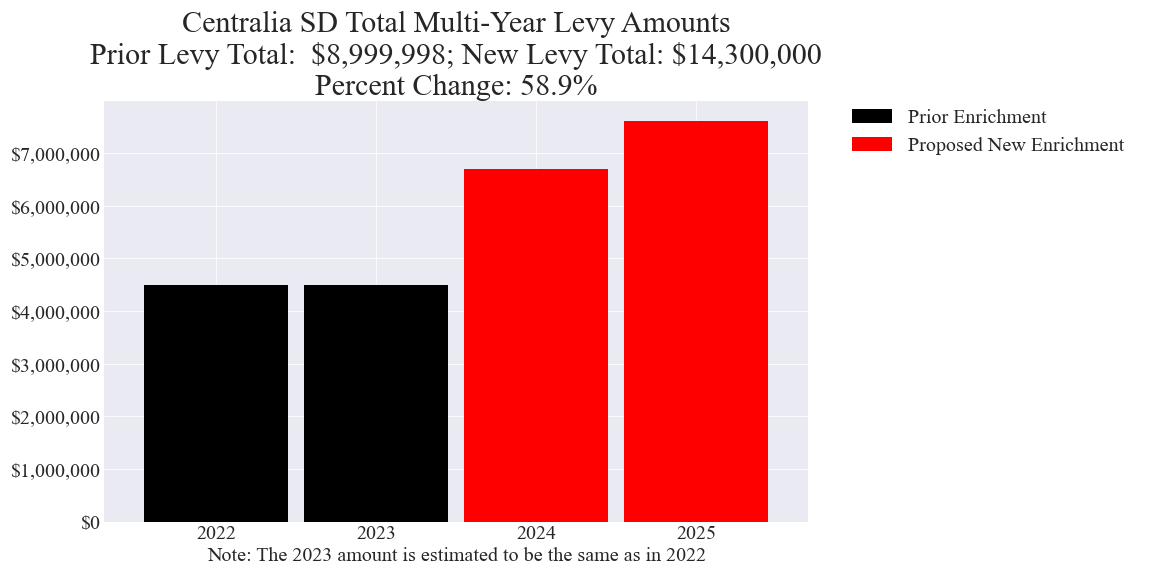
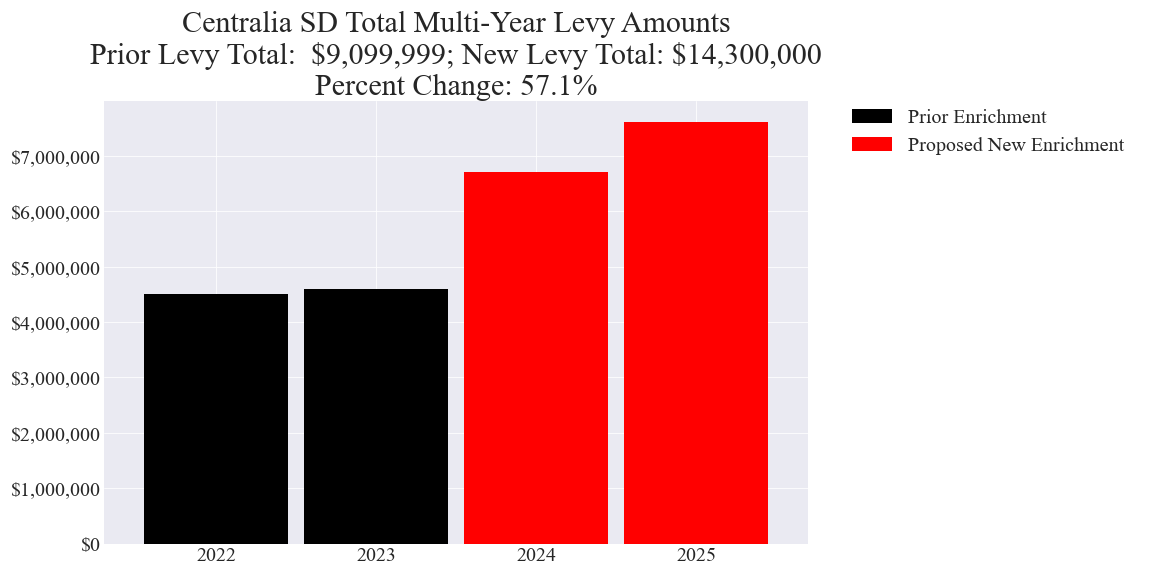
Updated Centralia

diff --git a/_includes/cost_estimates/20230214/Centralia_20230214_Enhanced.html b/_includes/cost_estimates/20230214/Centralia_20230214_Enhanced.html
@@ -19,7 +19,7 @@
 	totalLevyCostParcel = sampleParcelPOF * totalLevyCost;
 	levyYears = 2.0;
 	averageTotalLevyCostParcel = totalLevyCostParcel / levyYears;
-	totalLevyPriorCost = 8999998.0;
+	totalLevyPriorCost = 9099999.0;
 	totalLevyPriorCostParcel = sampleParcelPOF * totalLevyPriorCost;
 	averageTotalLevyPriorCostParcel = totalLevyPriorCostParcel / levyYears;
 	// POF Annual Change Percent
@@ -38,7 +38,7 @@
 
 		data.addRows([
 			['2022', 4499999, 0],
-			['2023', 4499999, 0],
+			['2023', 4600000, 0],
 			['2024', 0, 6700000],
 			['2025', 0, 7600000],
 
